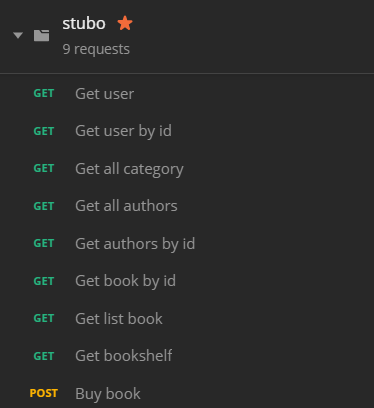
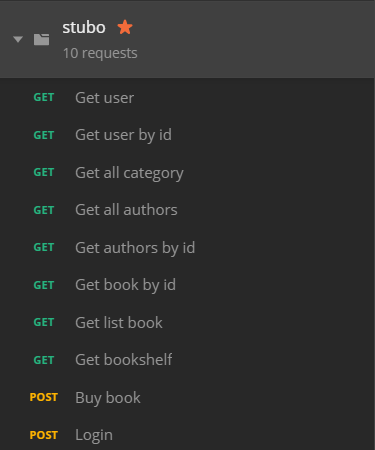
Add login

diff --git a/README.md b/README.md
@@ -65,6 +65,41 @@ X-ORACLE-DMS-RID →0
 STUBO-TotalItems →21
 ```
 
+Xác thực
+--------
+
+Một số API sử dụng JSON Web Tokens (jwt) để xác thực thành viên. Tham khảo tại link sau: [JSON Web Token](https://jwt.io/). Hệ thống sử dụng thuật toán [HS256](https://vi.wikipedia.org/wiki/SHA#SHA-256) để mã hóa jwt và [Base64](https://en.wikipedia.org/wiki/Base64) để mã hóa token của người dùng. Tất cả được hỗ trợ trong thư viện mã nguồn mở [JJWT](https://java.jsonwebtoken.io/). Token và jwt sẽ được trả về tại phần `HTTP Header` với tham số `STUBO-Token` và `STUBO-JWT`.
+
+VD:
+
+[JWT mẫu](https://jwt.io/#debugger-io?token=eyJhbGciOiJIUzI1NiJ9.eyJpYXQiOjE1NjM2MzIxMDIsInN1YiI6IlVzZXIiLCJpc3MiOiJTVFVCTyIsInVpZCI6IjMiLCJ1c24iOiJFcmljIiwiZXhwIjoxNTY0MTYwNDAwfQ.8YEcuJHZQDINQU3aITae8C4JT0iNCwHTNauTNQ_7XlU)
+
+![JWT mẫu](./include/image/jwt.png)
+
+### Thuộc tính trong JWT
+
+|Thuộc tính|Mô tả||
+|:-|:-|
+|`alg`|Thuật toán mã hóa sửa dụng|
+|`iat`|Ngày tạo (Đổi sang millisecond).|
+|`sub`|Chủ đề của token.|
+|`iss`|Tổ chức tạo và ký token.|
+|`uid `|Mã người dùng.|
+|`usn`|Tên người dùng.|
+|`exp`|Ngày hết hạn (Đổi sang millisecond).|
+
+### Thuộc tính trong bản token
+
+|Thuộc tính|Loại|Mô tả||
+|:-|:-|:-|
+|`tokenId`|Integer(11)|Mã token.|
+|`userId`|Integer(11)|Mã người dùng.|
+|`tokenName`|String(128)|Tên token|
+|`tokenPermissions`|String(10)|Quyền của token*|
+|`tokenKey`|String(64)|Token|
+|`tokenDateEnd`|DateTime|Ngày giờ token hết hiệu lực|
+|`tokenDateCreated`|DateTime|Ngày giờ tạo.|
+
 Test
 ----
 Để test thử hoạt động của Server, các bạn có thể tải file [tại đây](https://github.com/DangNguyenTranNgoc/STUBO/tree/master/deployments/test) và Deploy lên server.
@@ -103,6 +138,32 @@ Thuộc tính của khách hàng
 |`User_Address`|String|Địa chỉ khách hàng.|`READ-WRITE`|
 |`User_Account_Balance`|Integer(11)|Số tiền còn trong tài khoản.|`READ-WRITE`|
 
+Đăng nhập
+---------
+
+API đăng nhập thành viên
+
+> <img src="./include/image/btn-post.svg" height="15"> http://104.197.88.103:7101/soa-infra/resources/default/Authentication!1.0/login
+
+> Tham số của API
+
+```json
+{
+  "user_name" : "Tên đăng nhập.",
+  "user_password" : "Mật khẩu"
+}
+```
+
+> Trả về
+```json
+{
+  "result": {
[1 lines of base64/hex data omitted]
+    "jwtToken": "eyJhbGciOiJIUzI1NiJ9.eyJpYXQiOjE1NjM2MzIxMDIsInN1YiI6IlVzZXIiLCJpc3MiOiJTVFVCTyIsInVpZCI6IjMiLCJ1c24iOiJFcmljIiwiZXhwIjoxNTY0MTYwNDAwfQ.8YEcuJHZQDINQU3aITae8C4JT0iNCwHTNauTNQ_7XlU"
+  }
+}
+```
+
 Tạo thành viên mới
 ------------------
 > Đang xây dựng
@@ -118,7 +179,6 @@ Cập nhật thông tin thành viên
 API cập nhật tài khoản thành viên.
 
 Tham số của API
----------------
 
 |Tham số|Loại|Mô tả|
 |:-|:-:|:-|
@@ -170,10 +230,6 @@ API lấy thông tin thành viên dựa trên ID.
 ```
 
 ### Lấy hạn thành viên
-> Đang xây dựng
-
-Xác thực thành viên
--------------------
 > Đang xây dựng
 
 Lấy thông tin tài khoản thanh toán
